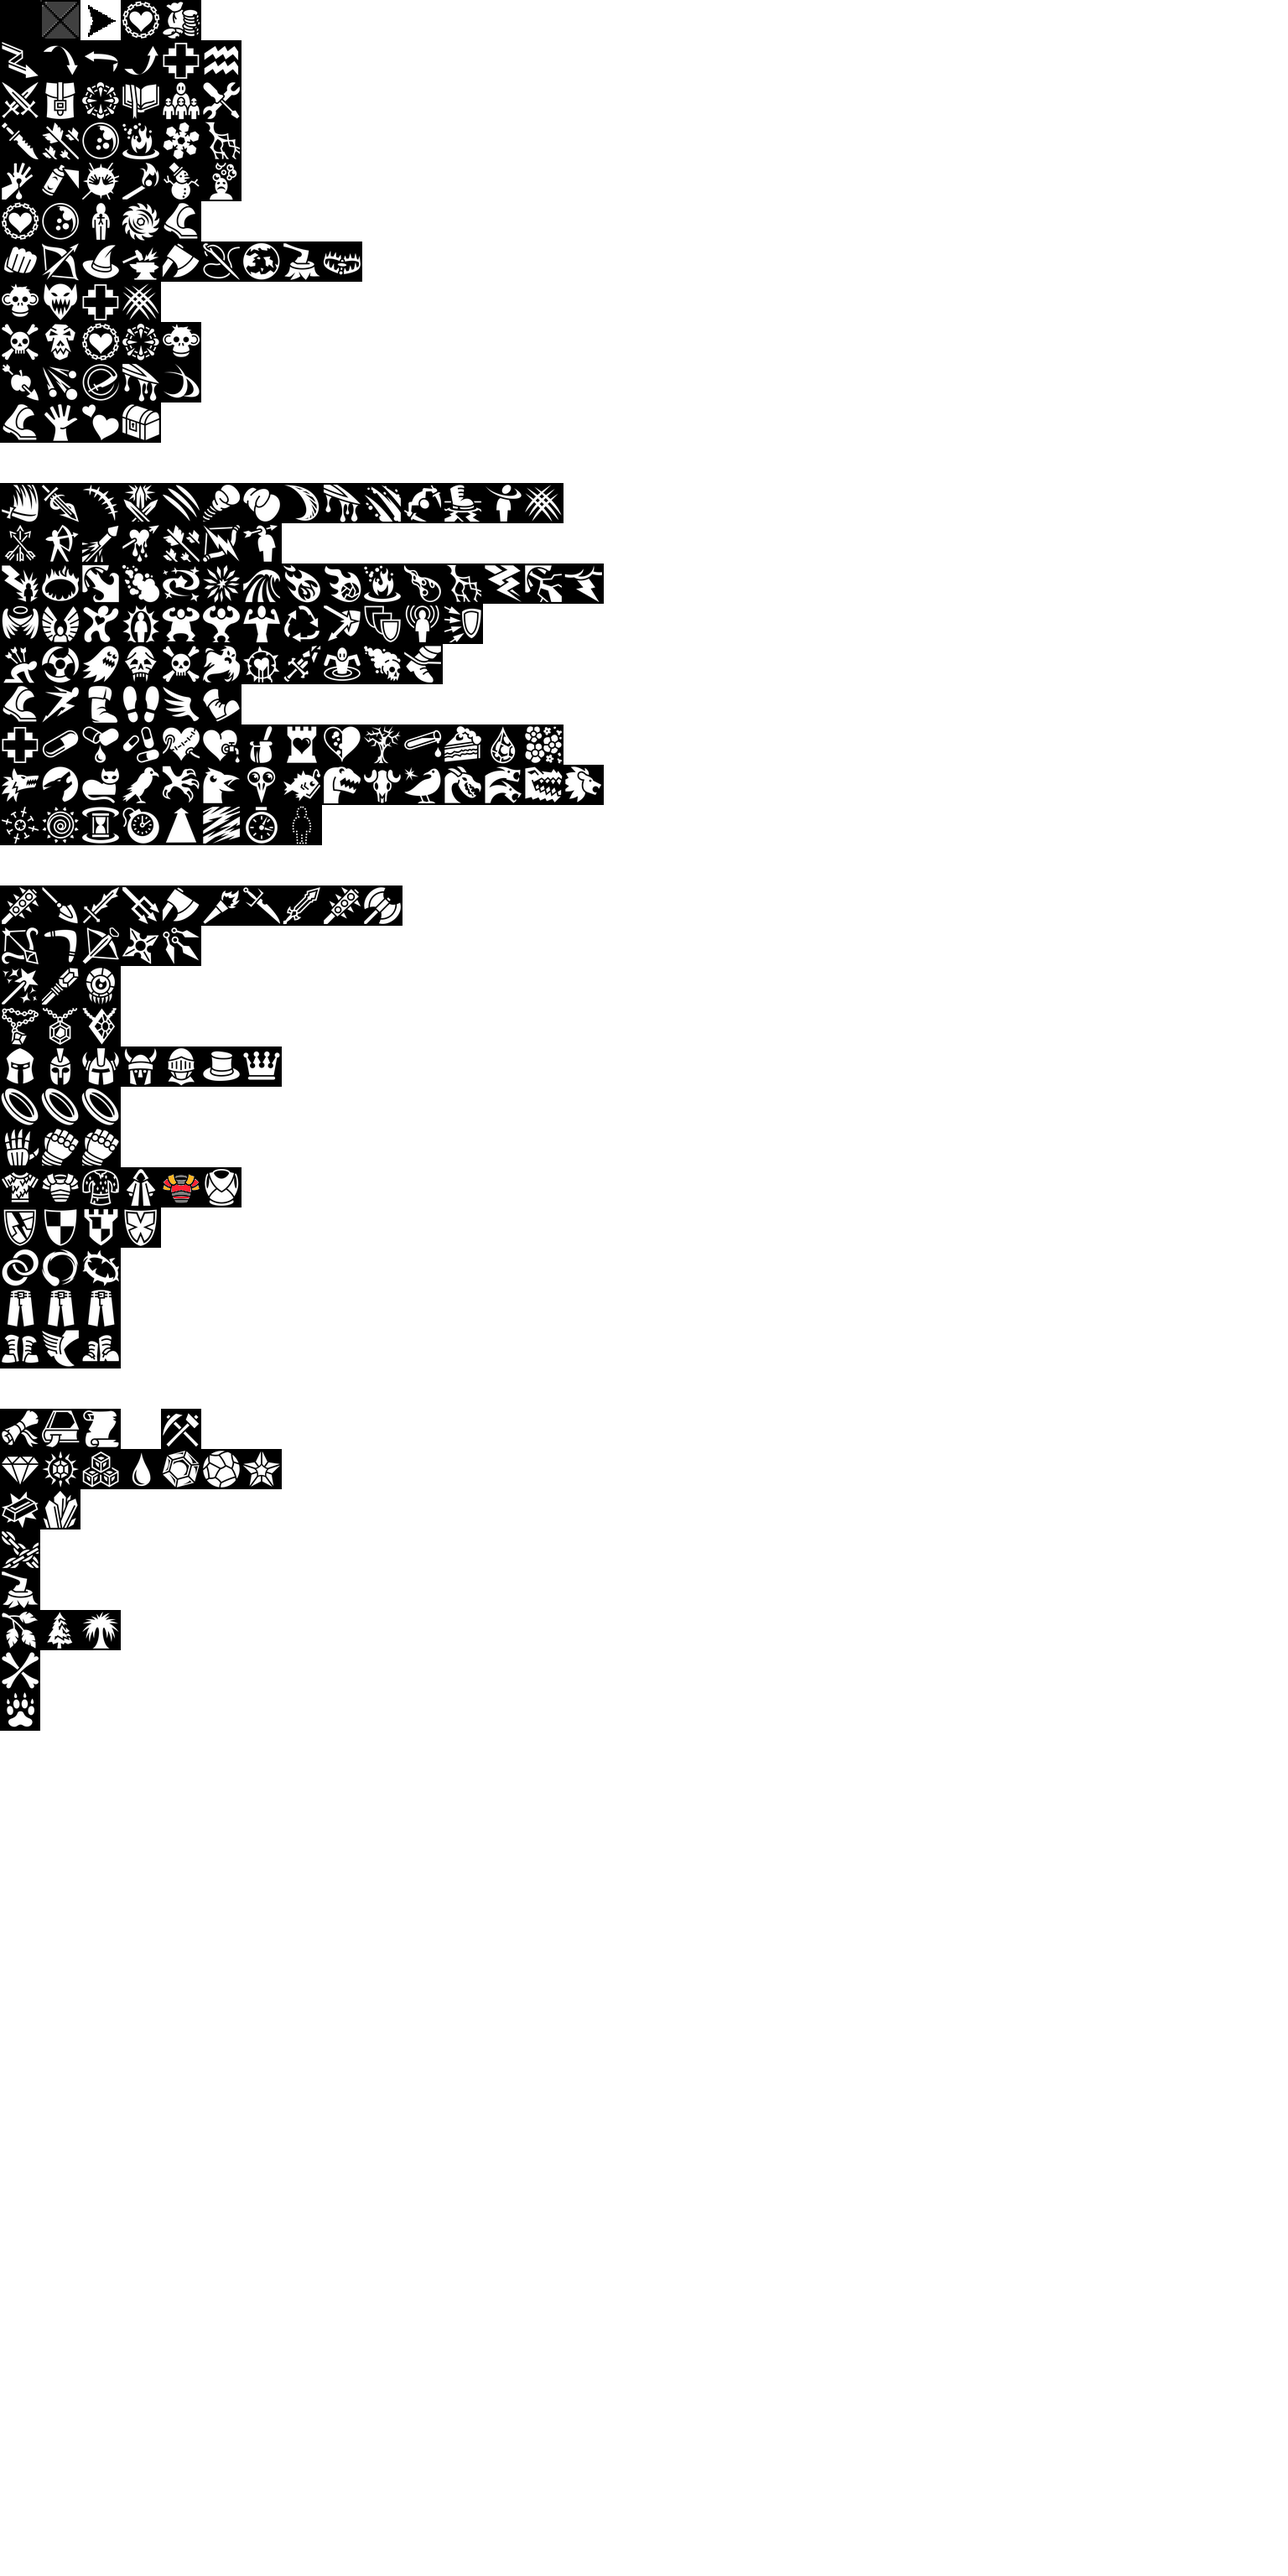
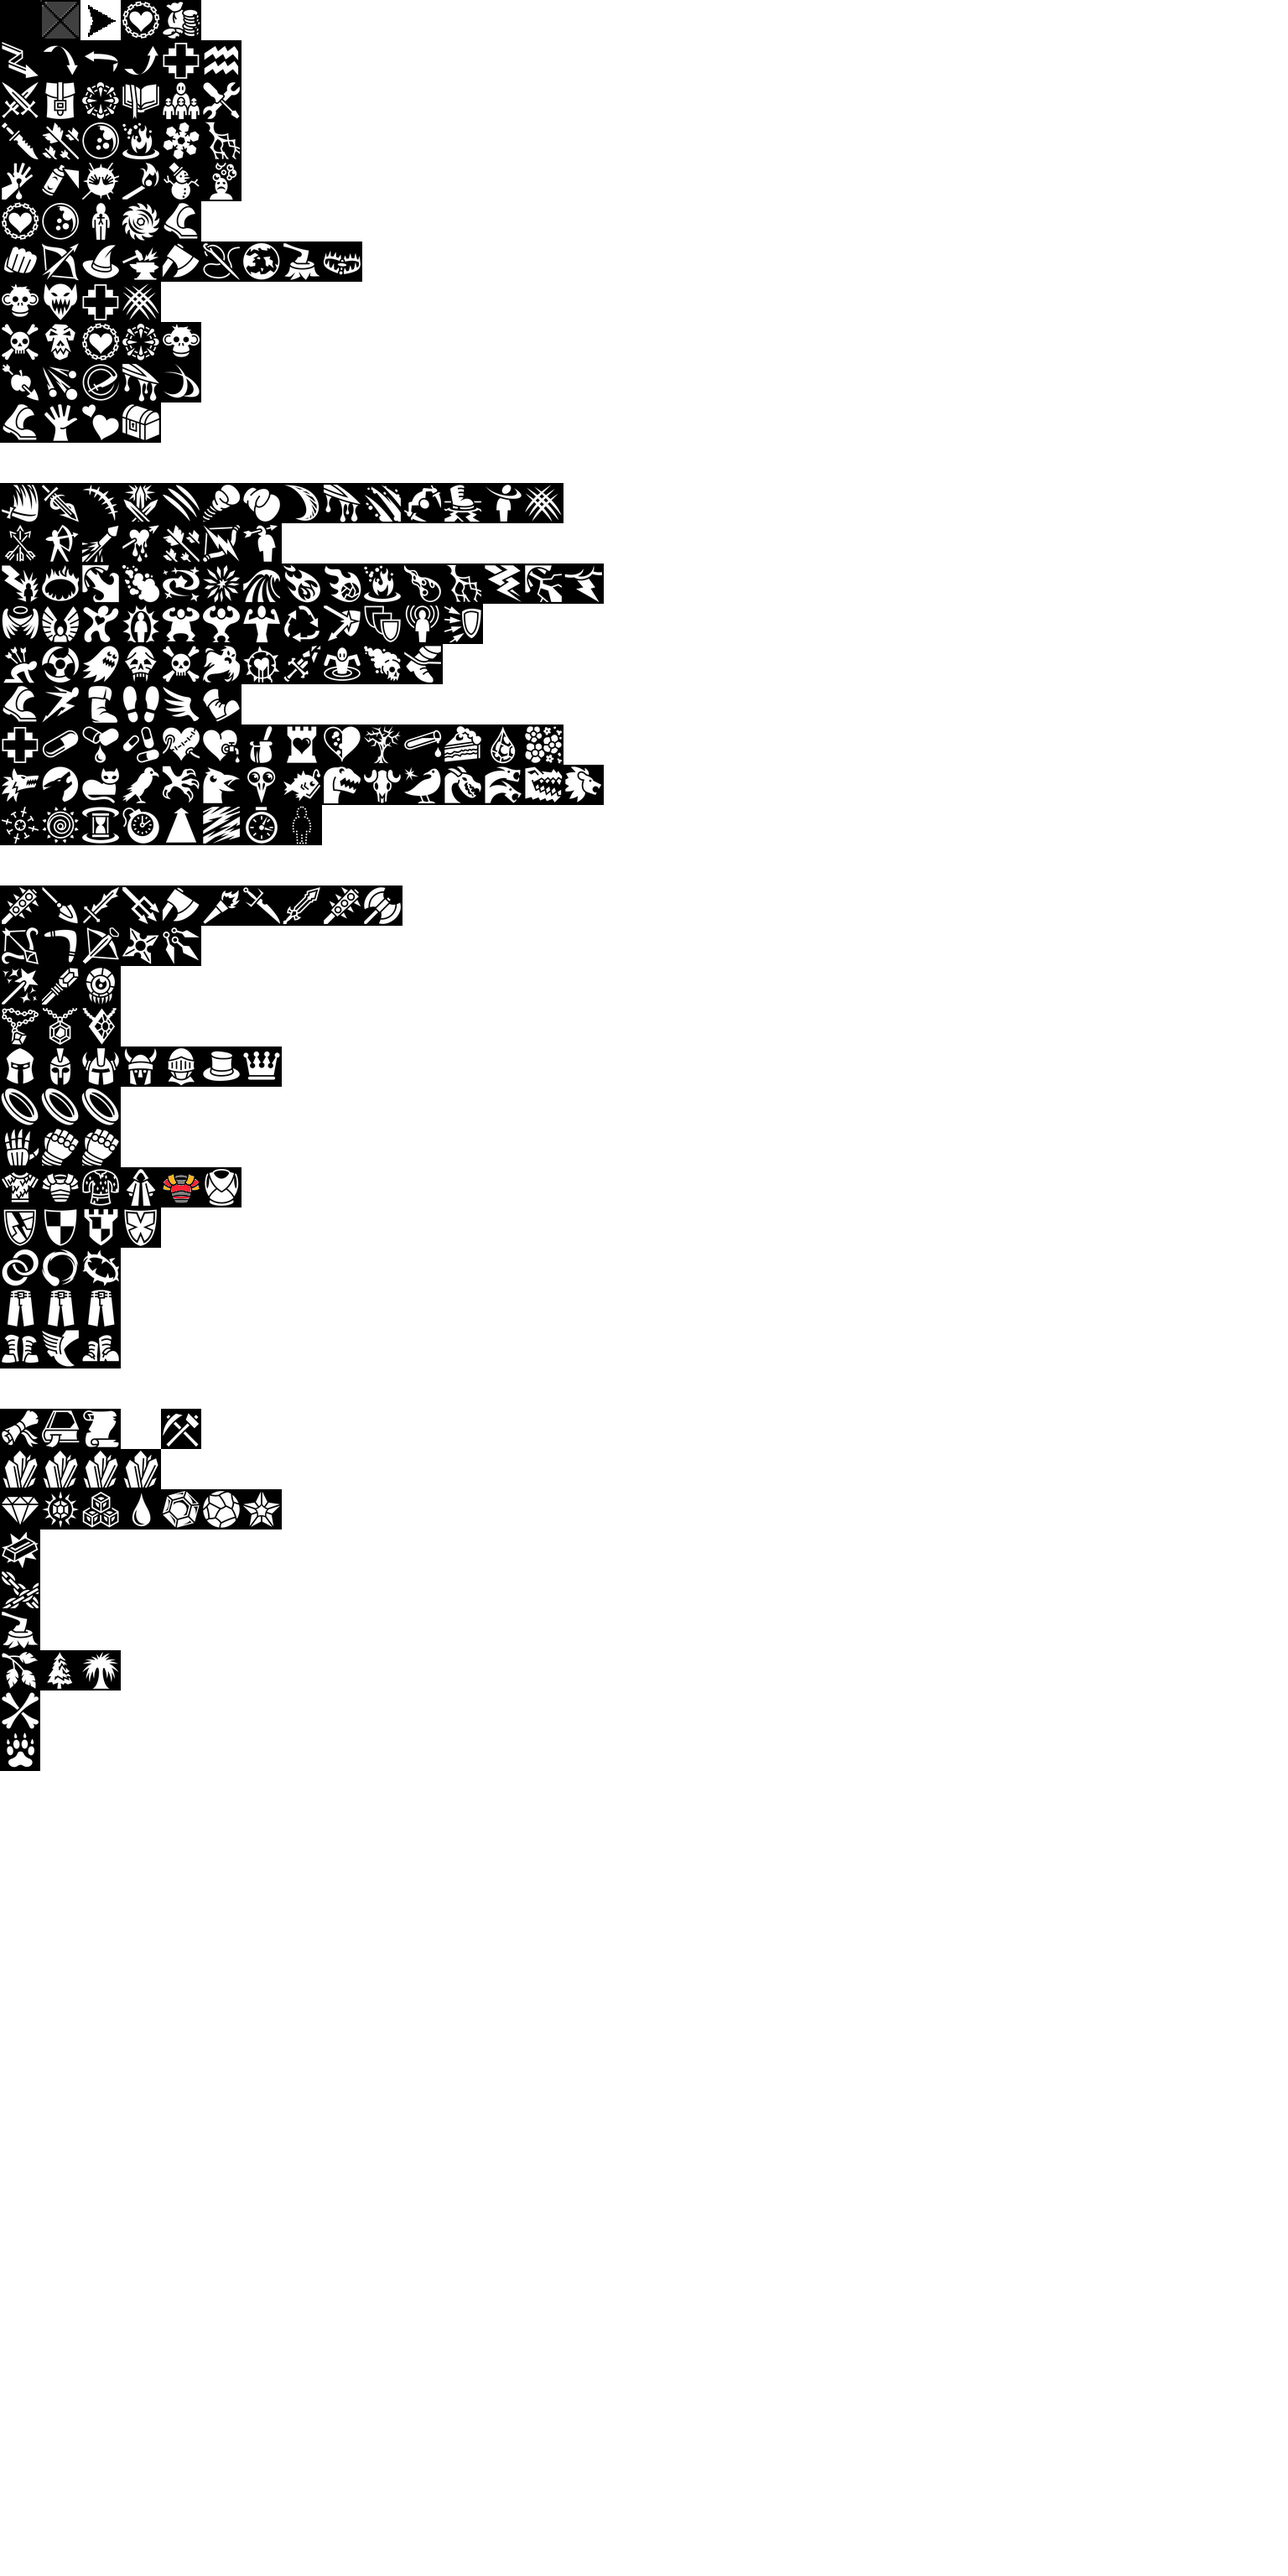
no idea what im doing

Changed region(s): [[0.0, 0.5625, 0.2188, 0.6875]]

diff --git a/server/update.js b/server/update.js
@@ -178,22 +178,24 @@ Change.update.init = function(){
 				{'array':['status'],'filter':Change.send.convert.status},
 				
 				
-				{'array':['equip','piece','body','id'],'sendArray':['equip','piece','body'],'sendFilter':(function(w){ return {'icon':w.icon,id:w.id} }) },
-				{'array':['equip','piece','helm','id'],'sendArray':['equip','piece','helm'],'sendFilter':(function(w){ return {'icon':w.icon,id:w.id} }) },
-				{'array':['equip','piece','shield','id'],'sendArray':['equip','piece','shield'],'sendFilter':(function(w){ return {'icon':w.icon,id:w.id} }) },
-				{'array':['equip','piece','bracelet','id'],'sendArray':['equip','piece','bracelet'],'sendFilter':(function(w){ return {'icon':w.icon,id:w.id} }) },
-				{'array':['equip','piece','gloves','id'],'sendArray':['equip','piece','gloves'],'sendFilter':(function(w){ return {'icon':w.icon,id:w.id} }) },
-				{'array':['equip','piece','boots','id'],'sendArray':['equip','piece','boots'],'sendFilter':(function(w){ return {'icon':w.icon,id:w.id} }) },
-				{'array':['equip','piece','pants','id'],'sendArray':['equip','piece','pants'],'sendFilter':(function(w){ return {'icon':w.icon,id:w.id} }) },
-				{'array':['equip','piece','amulet','id'],'sendArray':['equip','piece','amulet'],'sendFilter':(function(w){ return {'icon':w.icon,id:w.id} }) },
-				{'array':['equip','piece','ring','id'],'sendArray':['equip','piece','ring'],'sendFilter':(function(w){ return {'icon':w.icon,id:w.id} }) },
+				{'array':['equip','piece','body','id'],'sendArray':['equip','piece','body'],'sendFilter':Change.send.convert.equipPiece},
+				{'array':['equip','piece','helm','id'],'sendArray':['equip','piece','helm'],'sendFilter':Change.send.convert.equipPiece},
+				{'array':['equip','piece','shield','id'],'sendArray':['equip','piece','shield'],'sendFilter':Change.send.convert.equipPiece},
+				{'array':['equip','piece','bracelet','id'],'sendArray':['equip','piece','bracelet'],'sendFilter':Change.send.convert.equipPiece},
+				{'array':['equip','piece','gloves','id'],'sendArray':['equip','piece','gloves'],'sendFilter':Change.send.convert.equipPiece},
+				{'array':['equip','piece','boots','id'],'sendArray':['equip','piece','boots'],'sendFilter':Change.send.convert.equipPiece},
+				{'array':['equip','piece','pants','id'],'sendArray':['equip','piece','pants'],'sendFilter':Change.send.convert.equipPiece},
+				{'array':['equip','piece','amulet','id'],'sendArray':['equip','piece','amulet'],'sendFilter':Change.send.convert.equipPiece},
+				{'array':['equip','piece','ring','id'],'sendArray':['equip','piece','ring'],'sendFilter':Change.send.convert.equipPiece},
 				
-				{'array':['equip','piece','melee','id'],'sendArray':['equip','piece','melee'],'sendFilter':(function(w){ return {'icon':w.icon,id:w.id} }) },
-				{'array':['equip','piece','range','id'],'sendArray':['equip','piece','range'],'sendFilter':(function(w){ return {'icon':w.icon,id:w.id} }) },
-				{'array':['equip','piece','magic','id'],'sendArray':['equip','piece','magic'],'sendFilter':(function(w){ return {'icon':w.icon,id:w.id} }) },
+				{'array':['equip','piece','melee','id'],'sendArray':['equip','piece','melee'],'sendFilter':Change.send.convert.equipPiece},
+				{'array':['equip','piece','range','id'],'sendArray':['equip','piece','range'],'sendFilter':Change.send.convert.equipPiece},
+				{'array':['equip','piece','magic','id'],'sendArray':['equip','piece','magic'],'sendFilter':Change.send.convert.equipPiece},
 				
 				
-				{'array':['weapon','id'],'sendArray':['weapon'],'sendFilter':(function(w){ return {'type':w.type,'piece':w.piece,'icon':w.icon,id:w.id} }) },
+				{'array':['weapon','id'],'sendArray':['weapon'],'sendFilter':Change.send.convert.equipWeapon},
+				
+			
 				
 				
 			],

diff --git a/server/client/js/Draw_tab.js b/server/client/js/Draw_tab.js
@@ -99,20 +99,23 @@ Draw.tab.equip = function (){ ctxrestore();
 	for (var i = 0 ; i < Cst.equip.weapon.piece.length ; i++){
 		var numX = s.x + 10;
 		var numY = s.y + 7 + 5 + 45 * i;
-		
 		var piece = Cst.equip.weapon.piece[i];
-		if(player.weapon.piece != Cst.equip.weapon.piece[i]){ ctx.globalAlpha = 0.5; } 
+		var equip = player.equip.piece[piece];
 		
-		Draw.icon(player.equip.piece[Cst.equip.weapon.piece[i]].icon,[numX,numY],40);
+		if(!equip) continue;	//dont have this weapon piece equipped
+		
+		if(player.weapon.piece != piece){ ctx.globalAlpha = 0.5; } 
+		
+		Draw.icon(equip.icon,[numX,numY],40);
 		ctx.globalAlpha = 1;
 		
 		if(Collision.PtRect(Collision.getMouse(),[numX,numX+40,numY,numY+40])){
-			main.popupList.equip = player.equip.piece[Cst.equip.weapon.piece[i]].id;
+			main.popupList.equip = equip.id;
 		}
 		
 		Button.creation(0,{
 			"rect":[numX,numX+40,numY,numY+40],
-			"left":{"func":Chat.send.command,"param":['$tab,swapWeapon,' + Cst.equip.weapon.piece[i]]},
+			"left":{"func":Chat.send.command,"param":['$tab,swapWeapon,' + piece]},
 			"text":'Swap Weapon'
 		});
 			
@@ -122,12 +125,16 @@ Draw.tab.equip = function (){ ctxrestore();
 	for (i = 0 ; i < Cst.equip.armor.piece.length ; i++){
 		var numX = s.x + 55 + 45*(i%3);
 		var numY = s.y + 7 + 5 + 45 * Math.floor(i/3);
-		var piece = player.equip.piece[Cst.equip.armor.piece[i]];
 		
-		Draw.icon(piece.icon,[numX+10,numY],40);
+		var piece = Cst.equip.armor.piece[i];
+		var equip = player.equip.piece[piece];
+		
+		if(!equip) continue;	//dont have this piece equipped
+		
+		Draw.icon(equip.icon,[numX+10,numY],40);
 		
 		if(Collision.PtRect(Collision.getMouse(0),[numX,numX+40,numY,numY+40])){
-			main.popupList.equip = piece.id;
+			main.popupList.equip = equip.id;
 		}		
 	}
 	

diff --git a/server/db/Db_material.js b/server/db/Db_material.js
@@ -43,16 +43,16 @@ Init.db.material = function(){
 		'hide-80':{'name':'Dragon Leather','icon':'hide.hide'},
 		
 		
-		'rare-0':{'name':'Rare Material 0','icon':'hide.hide'},
-		'rare-1':{'name':'Rare Material 1','icon':'hide.hide'},
-		'rare-2':{'name':'Rare Material 2','icon':'hide.hide'},
-		'rare-3':{'name':'Rare Material 3','icon':'hide.hide'},
-		'rare-4':{'name':'Rare Material 4','icon':'hide.hide'},
-		'rare-5':{'name':'Rare Material 5','icon':'hide.hide'},
-		'rare-6':{'name':'Rare Material 6','icon':'hide.hide'},
-		'rare-7':{'name':'Rare Material 7','icon':'hide.hide'},
-		'rare-8':{'name':'Rare Material 8','icon':'hide.hide'},
-		'rare-9':{'name':'Rare Material 9','icon':'hide.hide'},
+		'rare-0':{'name':'Rare Material 0','icon':'rare.0'},
+		'rare-1':{'name':'Rare Material 1','icon':'rare.1'},
+		'rare-2':{'name':'Rare Material 2','icon':'rare.2'},
+		'rare-3':{'name':'Rare Material 3','icon':'rare.3'},
+		'rare-4':{'name':'Rare Material 4','icon':'rare.4'},
+		'rare-5':{'name':'Rare Material 5','icon':'rare.5'},
+		'rare-6':{'name':'Rare Material 6','icon':'rare.6'},
+		'rare-7':{'name':'Rare Material 7','icon':'rare.7'},
+		'rare-8':{'name':'Rare Material 8','icon':'rare.8'},
+		'rare-9':{'name':'Rare Material 9','icon':'rare.9'},
 		
 	};
 	var tmp = {};
@@ -70,9 +70,6 @@ Init.db.material = function(){
 		tmp[i] = 0;
 	}
 	
-	if(!server) return;
-	Craft.material.template = new Function('return ' + stringify(tmp));
-	Craft.material.list = Object.keys(Db.material).sort();
 	for(var i in Db.material){
 		var entry = Db.material[i];
 		

diff --git a/server/db/Db_item.js b/server/db/Db_item.js
@@ -29,10 +29,10 @@ Init.db.item = function (cb){
 	Db.item = {}; var a = Db.item;
 
 	//{Crafting					
-	a['shard-white'] = {'name':'White Shard','icon':'system.gold','stack':1}
-	a['shard-blue'] = {'name':'Blue Shard','icon':'system.gold','stack':1}
-	a['shard-yellow'] = {'name':'Yellow Shard','icon':'system.gold','stack':1}
-	a['shard-gold'] = {'name':'Gold Shard','icon':'system.gold','stack':1}
+	a['shard-white'] = {'name':'White Shard','icon':'shard.white','stack':1}
+	a['shard-blue'] = {'name':'Blue Shard','icon':'shard.blue','stack':1}
+	a['shard-yellow'] = {'name':'Yellow Shard','icon':'shard.yellow','stack':1}
+	a['shard-gold'] = {'name':'Gold Shard','icon':'shard.gold','stack':1}
 	
 	a['gold'] = {'name':'Gold','icon':'system.gold','stack':1,
 		'option':[	{'name':'Craft Armor','func':'Plan.use','param':['randomArmor']},

diff --git a/server/client/js/img.js b/server/client/js/img.js
@@ -91,13 +91,15 @@ Img.icon = newImage("img/img/iconSheet.png");
 	
 	//Craft
 	'plan':{'y':craft+0,'x':['equip','ability']},
-	'orb':{'y':craft+1,'x':['upgrade','boost','removal']},
-	'metal':{'y':craft+2,'x':['metal']},
-	'chain':{'y':craft+3,'x':['chain']},
-	'wood':{'y':craft+4,'x':['wood']},
-	'leaf':{'y':craft+5,'x':['leaf']},
-	'bone':{'y':craft+6,'x':['bone']},
-	'hide':{'y':craft+7,'x':['hide']},
+	'shard':{'y':craft+1,'x':['white','blue','yellow','gold']},
+	'orb':{'y':craft+2,'x':['upgrade','boost','removal']},
+	'metal':{'y':craft+3,'x':['metal']},
+	'chain':{'y':craft+4,'x':['chain']},
+	'wood':{'y':craft+5,'x':['wood']},
+	'leaf':{'y':craft+6,'x':['leaf']},
+	'bone':{'y':craft+7,'x':['bone']},
+	'hide':{'y':craft+8,'x':['hide']},
+	'rare':{'y':craft+9,'x':['0','1','2','3','4','5','6','7','8','9']},
 	
 	
 	

diff --git a/server/client/js/Draw_upper.js b/server/client/js/Draw_upper.js
@@ -171,7 +171,8 @@ Draw.minimap.button = function(s){
 		});	
 }
 
-Draw.minimap.icon = function(s){
+Draw.minimap.icon = function(s){	//creates lag? bug NEEDWORK
+	return;
 	var zoom = main.pref.mapZoom/100;
 	var ratio = main.pref.mapRatio;
 
@@ -189,11 +190,12 @@ Draw.minimap.icon = function(s){
 			var numY = cy+vy/zoom/ratio-size/2;
 		
 			if(Collision.PtRect({x:numX+size/2,y:numY+size/2},[s.x,s.x+Cst.WIDTH/main.pref.mapRatio,s.y,s.y+Cst.HEIGHT/main.pref.mapRatio])){
+				console.log(1);
 				Draw.icon(m.minimapIcon,[numX,numY],size);
 			}
 		}
 	}
-	Draw.icon('system.square',[s.x + Cst.WIDTH/main.pref.mapRatio/2-2,s.y + Cst.HEIGHT/main.pref.mapRatio/2-2],4);
+	//Draw.icon('system.square',[s.x + Cst.WIDTH/main.pref.mapRatio/2-2,s.y + Cst.HEIGHT/main.pref.mapRatio/2-2],4);
 }
 //}
 

diff --git a/app.js b/app.js
@@ -63,8 +63,8 @@ require('./server/db/Db_item');
 require('./server/db/Db_plan');
 require('./server/db/Db_equip');
 require('./server/db/Db_boost');
+require('./server/db/Db_material');
 		
-require('./' + clientPath + 'client/js/shared/Db_material');
 require('./' + clientPath + 'client/js/shared/Collision');
 require('./' + clientPath + 'client/js/shared/Db_stat');
 require('./' + clientPath + 'client/js/shared/constant');
@@ -81,7 +81,8 @@ require('./' + clientPath + 'client/js/shared/Db_quest');
 require('./' + clientPath + 'client/js/shared/Quest');
 require('./' + clientPath + 'client/js/shared/Db_customboost');
 
-Init.db('test');
+
+Init.db('test',process.argv[2]);	//if(process.argv[2]) => delete db
 Init.email('mailmailmail');
 main.initServer(); 	
 /*	

diff --git a/server/db/Db.js b/server/db/Db.js
@@ -1,5 +1,5 @@
 Init = {};
-Init.db = function(dbpsw){
+Init.db = function(dbpsw,deleteDb){
 	//var databaseURI = 'mongodb://test:' + dbpsw + '@widmore.mongohq.com:10010/RainingChain_copy';  
 	var databaseURI = "localhost:27017/test";
 	
@@ -44,7 +44,8 @@ Init.db = function(dbpsw){
 	}
 
 	db.err = function(err){ if (err) throw err; }
-
+	
+	if(deleteDb) db.deleteAll();
 	//db.deleteAll();
 	//db.filterDb();
 	

diff --git a/server/client/js/shared/Actor.js b/server/client/js/shared/Actor.js
@@ -17,9 +17,10 @@ Actor.updateEquip = function(mort){
 		var i = Cst.element.list[k];
 		var sum = 0;
 		for(var j in mort.equip.piece){	//Each Piece
+			if(!mort.equip.piece[j]) continue;
 			sum += mort.equip.piece[j].def.main * mort.equip.piece[j].def.ratio[i] * mort.equip.piece[j].orb.upgrade.bonus;
 		}
-		mort.equip.def[i] = sum;
+		mort.equip.def[i] = sum || 1;
 	}
 }
 

diff --git a/server/send.js b/server/send.js
@@ -256,6 +256,16 @@ Change.send.convert.map = function(name){
 }
 
 
+Change.send.convert.equipPiece = function(w){ 
+	if(!w) return '';
+	return {'icon':w.icon,id:w.id} 
+}
+				
+Change.send.convert.equipWeapon	= function(w){ 
+	if(!w) return '';
+	return {'type':w.type,'piece':w.piece,'icon':w.icon,id:w.id} 
+}
+
 
 
 

diff --git a/server/client/index.html b/server/client/index.html
@@ -62,7 +62,6 @@
 		<script src="/js/shared/Db_quest.js"></script>
 		<script src="/js/shared/Quest.js"></script>
 		<script src="/js/shared/Db_customboost.js"></script>
-		<script src="/js/shared/Db_material.js"></script>
 		
 		<script src="/js/main.js"></script>
 		<script src="/js/Map.js"></script>

diff --git a/server/craft.js b/server/craft.js
@@ -280,8 +280,6 @@ Craft.orb.upgrade = function(key,equip,amount,mod){
 	equip.orb.upgrade.bonus = Craft.orb.upgrade.formula(equip.orb.upgrade.amount);	//so-so useful for ability
 }
 
-
-
 Craft.orb.upgrade.formula = function(x){
 	return 0.9+0.1*Math.log10(10+x);
 }
